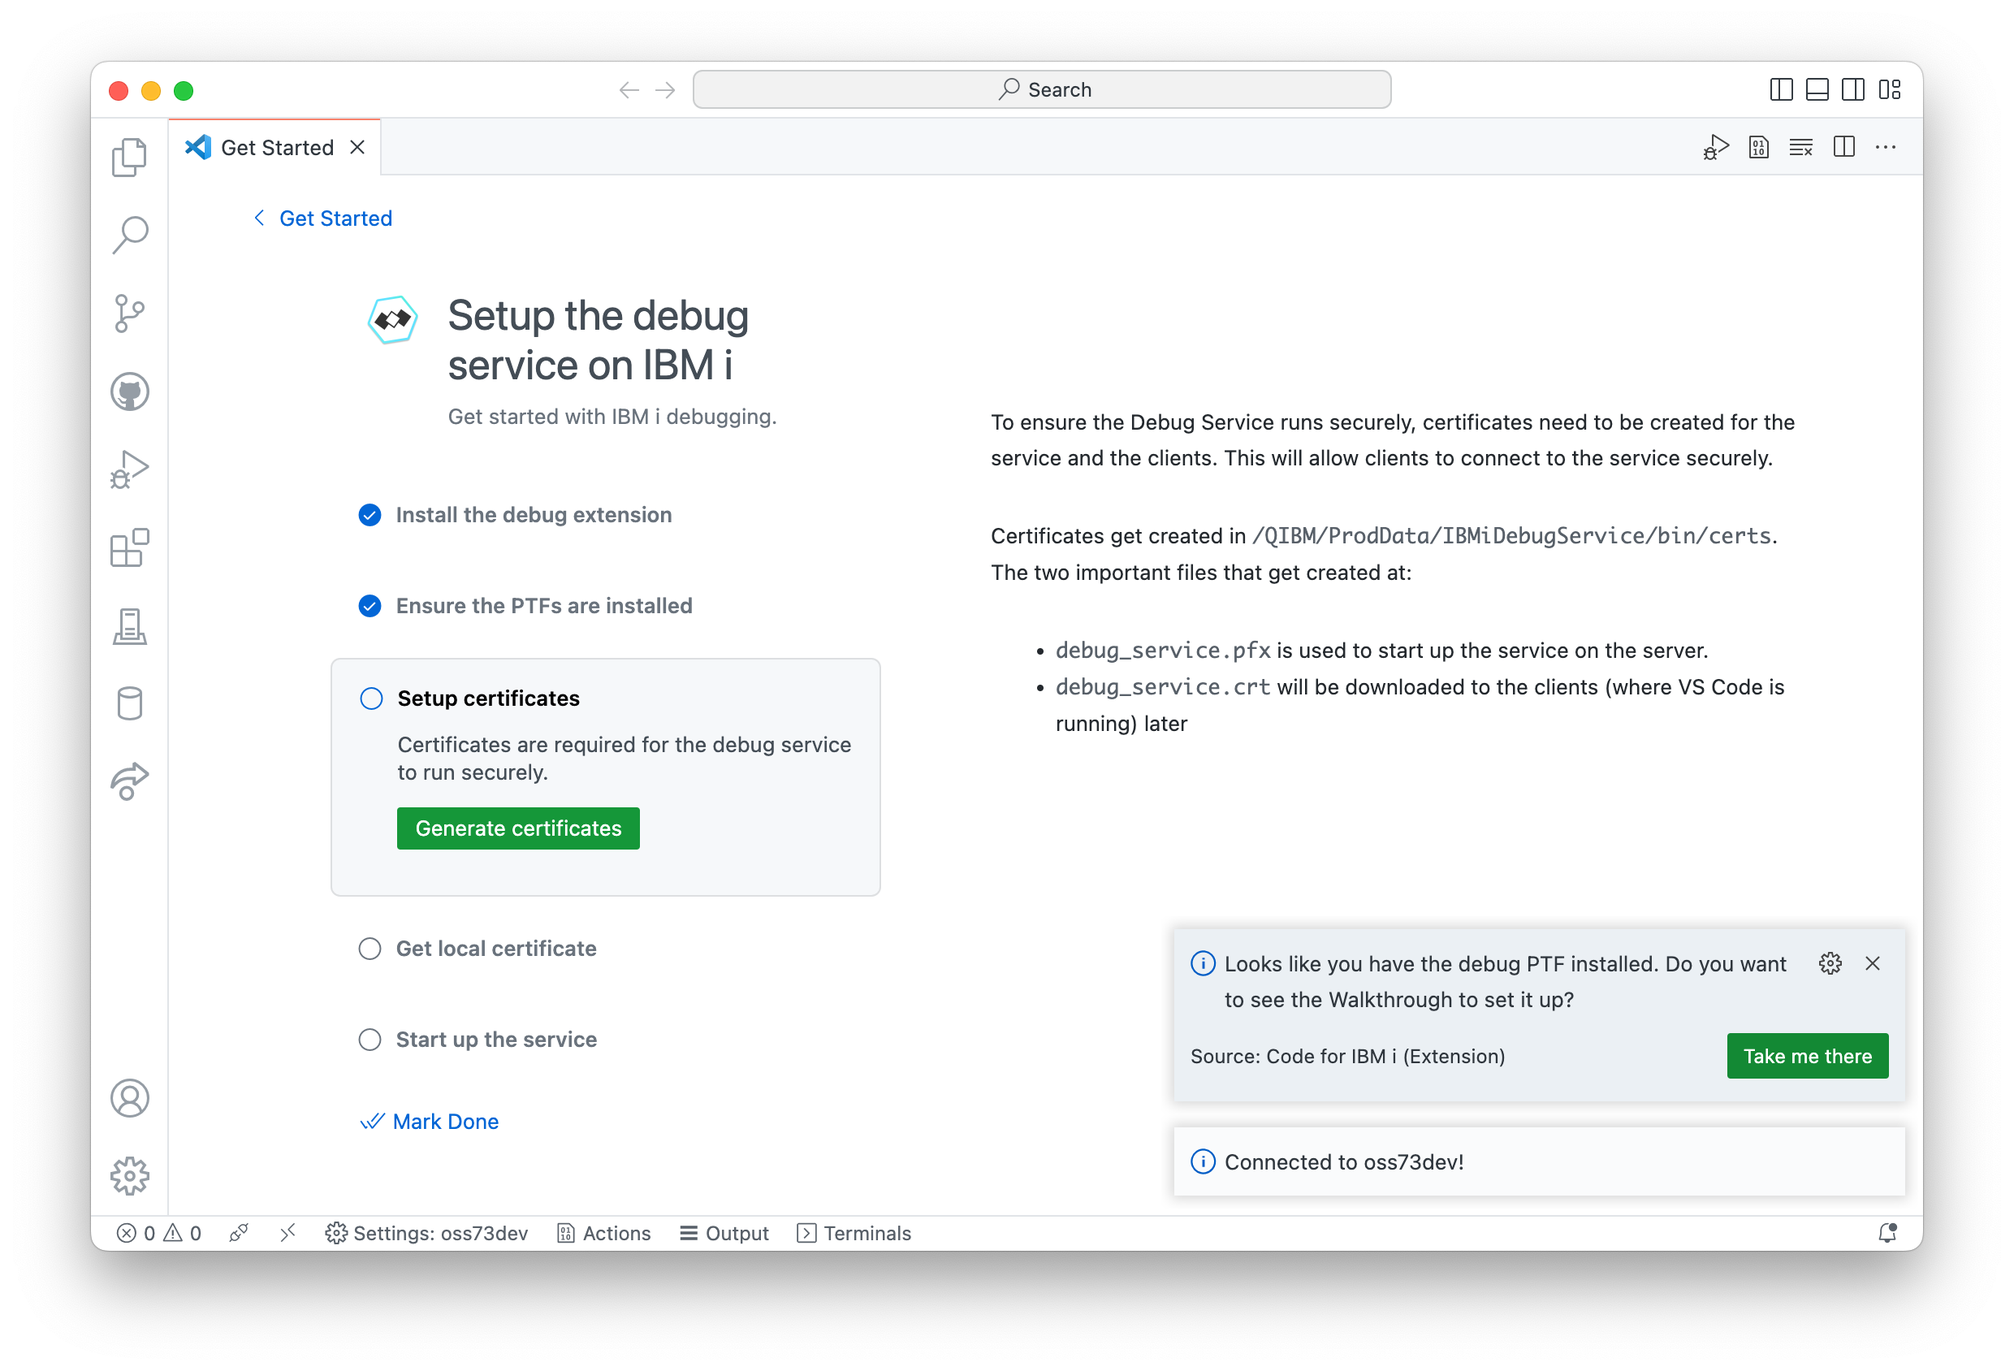
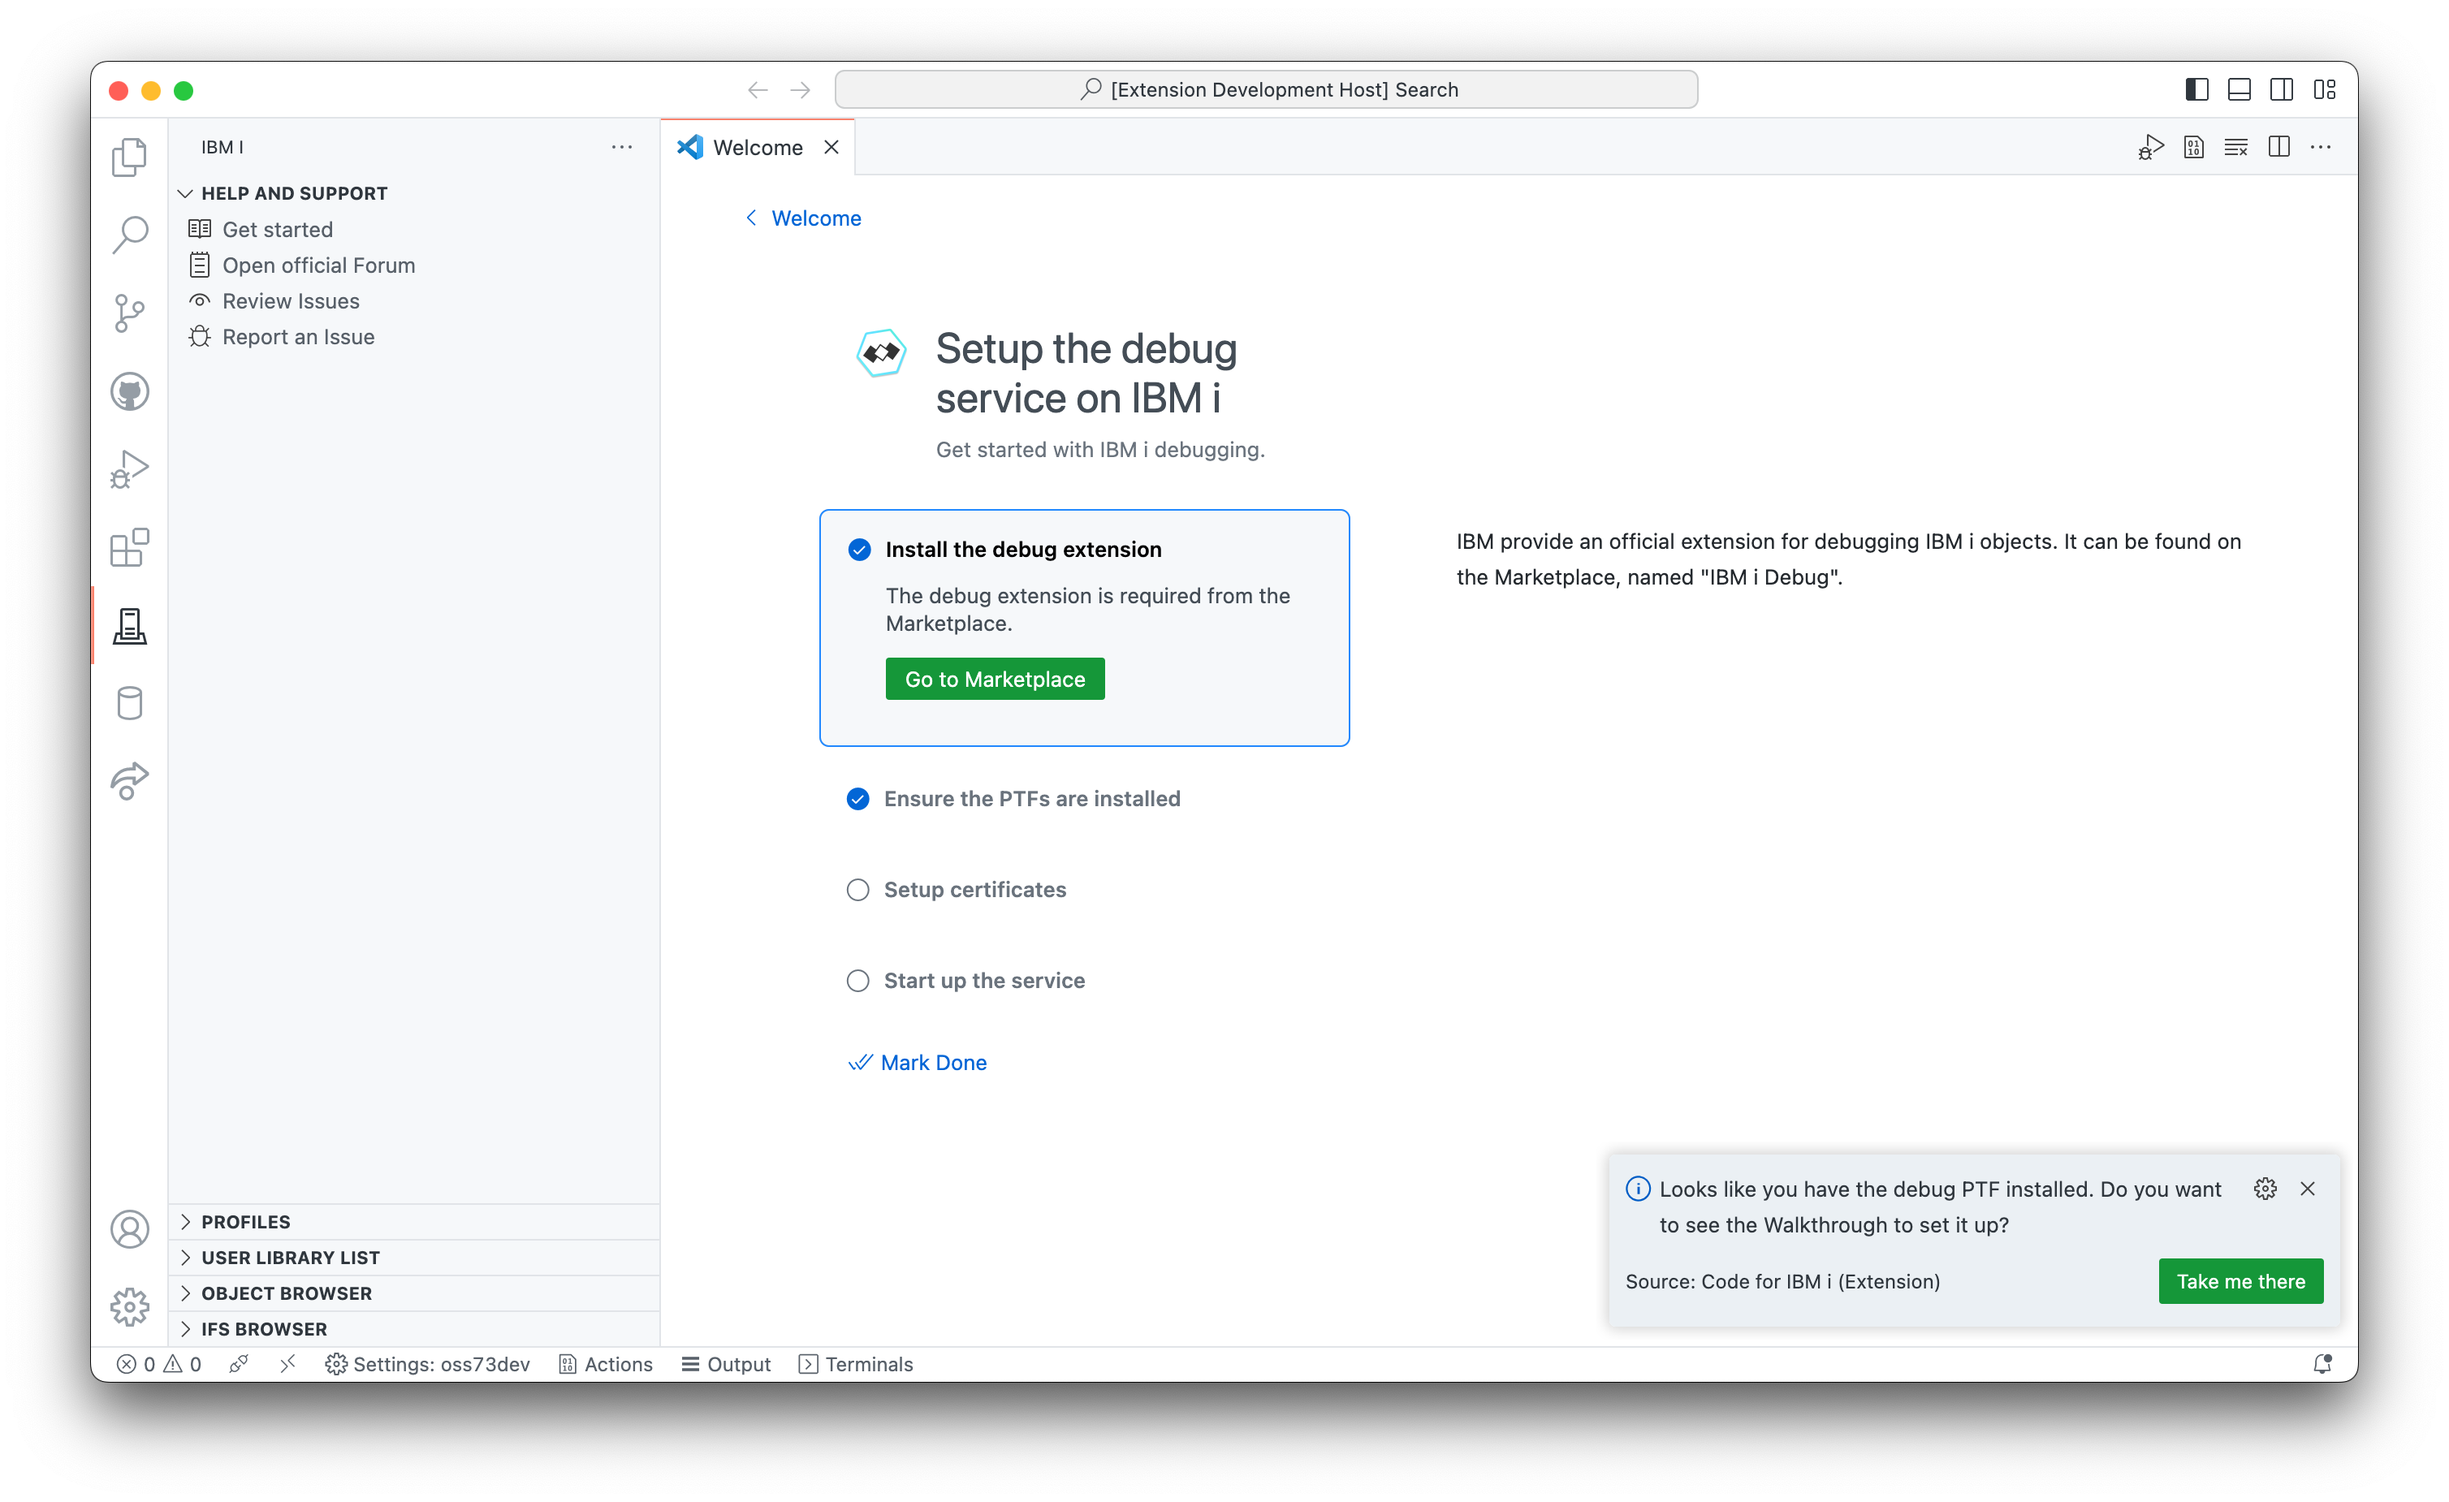
Debugging updates

diff --git a/docs/pages/developing/debug/debug.md b/docs/pages/developing/debug/debug.md
@@ -21,10 +21,10 @@ After the debug session has started, every session will break on entry. You can 
 * PTFs
 * Certificates setup on the server
    * created in `/QIBM/ProdData/IBMiDebugService/bin/certs`
-* Local client certificate
-   * created in the home directory on the device running Visual Studio Code
 * IBM i Debug extension
    * installed into Visual Studio Code
+* Local client certificate (**optional**)
+   * can be imported with the 'Import local certificate' command
 
 ## Required PTFs
 
@@ -47,17 +47,11 @@ After connecting to a system in Code for IBM i, if the PTFs are installed but th
 
 ### Generating certificates
 
-This Walkthrough can easily configure the Debug Service and start it up. The last three steps have buttons to 'Generate certificates', 'Download certificate' and 'Start debug service'. Running them in order will do all the work to setup the service.
+This Walkthrough can easily configure the Debug Service and start it up. The last steps have buttons to 'Generate certificates' and 'Start debug service'. Running them in order will do all the work to setup the service.
 
 ![](./setup2_a.png)
 
 *It will ask you to confirm the initialisation.*
-
-![](./setup2_b.png)
-
-*It will not let you regenerate certificates. The existing certificates have to be deleted manually. This is a safety measure.*
-
-Whenever you generate new certificates on the server, it will automatically download the client certificate. Now, because the client certificate exists on the server, Code for IBM i will be automatically downloaded onto other users devices when they connect to the server.
 
 ### Starting the server
 
@@ -71,11 +65,19 @@ You can also start the Debug Service through the command palette:
 
 # Common issues
 
+## `STRDBGSVR` requirement
+
+The Debug Service that is started depends on the traditional Debug Server.
+
+![](./error_2.png)
+
+If you recieve this message, do as it says. Simply start the Debug Server with `STRDBGSVR` from a greenscreen.
+
+It does mean that both a Debug Service and Debug Server are running. The Debug Service is used for VS Code and Merlin, which talks to the Debug Server to interact with IBM i.
+
 ## IP not in cert list
 
-**It is always recommended you use a hostname in the connection settings** to make use of the debugger.
-
-For now, it is **not** recommended to use an IP address to connect to the debugger (when running in secure mode).
+**It is always recommended you use a hostname in the connection settings to make use of the debugger when in secure mode**.
 
 ![](./error_1.png)
 
